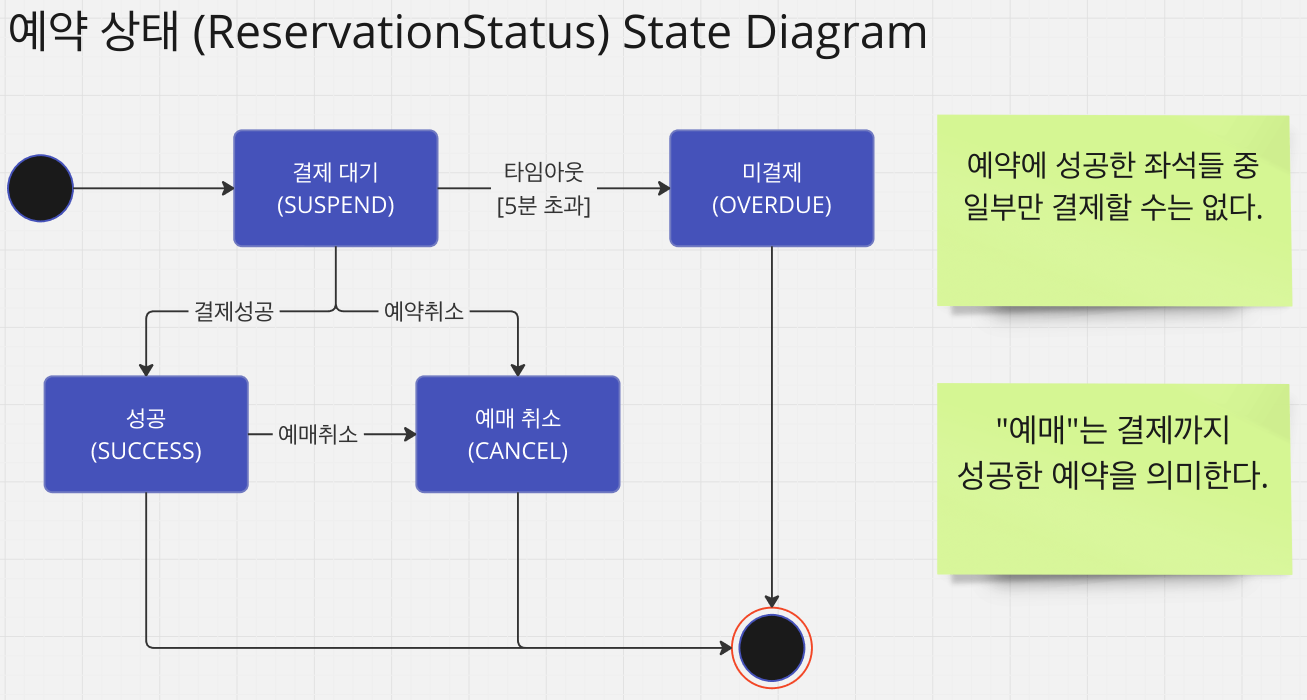
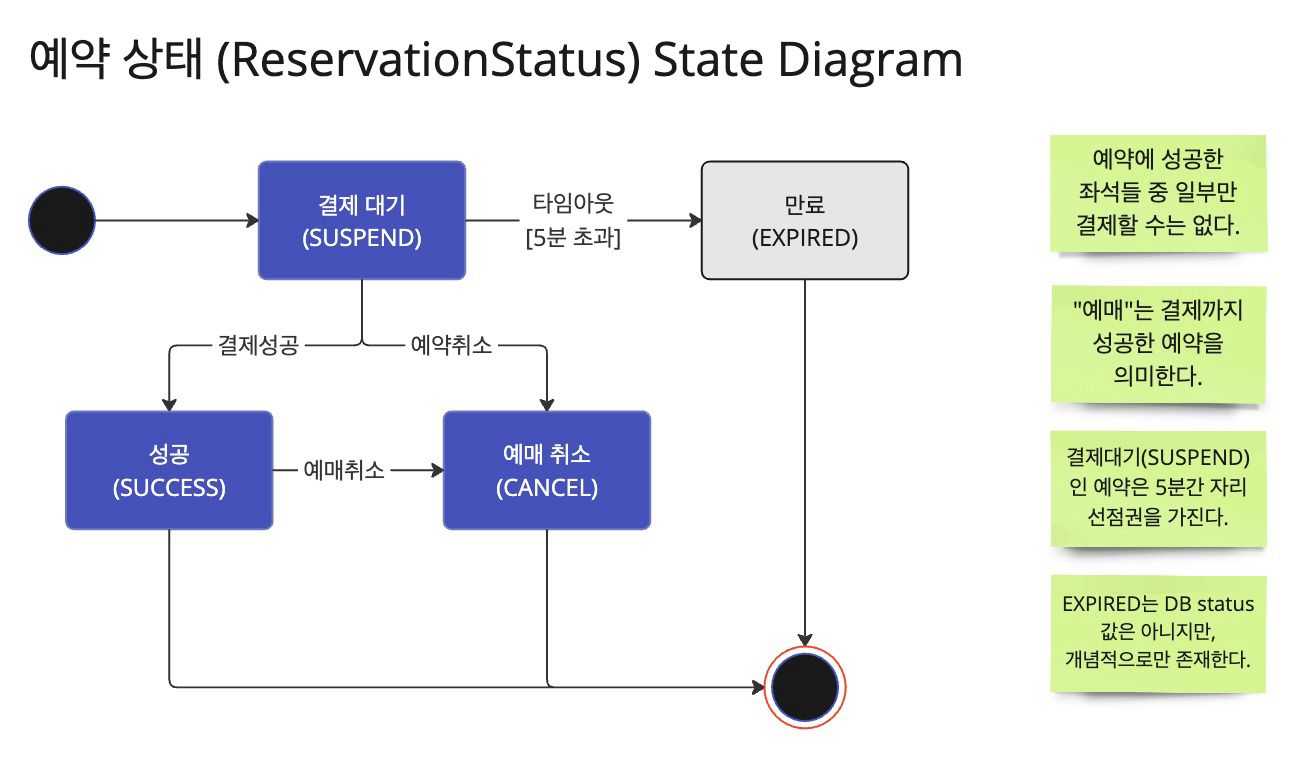
doc: 예약 상태 다이어그램 수정 (네이밍 변경)

diff --git a/doc/2_UML.md b/doc/2_UML.md
@@ -19,7 +19,7 @@
 ## 예약 상태 다이어그램
 
 <div style="text-align: center;">
-  <img src="../assets/doc/uml/img_1.png" alt="img_1"/>
+  <img src="../assets/doc/uml/img_1.png" alt="img_1" style="zoom: 70%"/>
 </div>
 
 ### 설명
